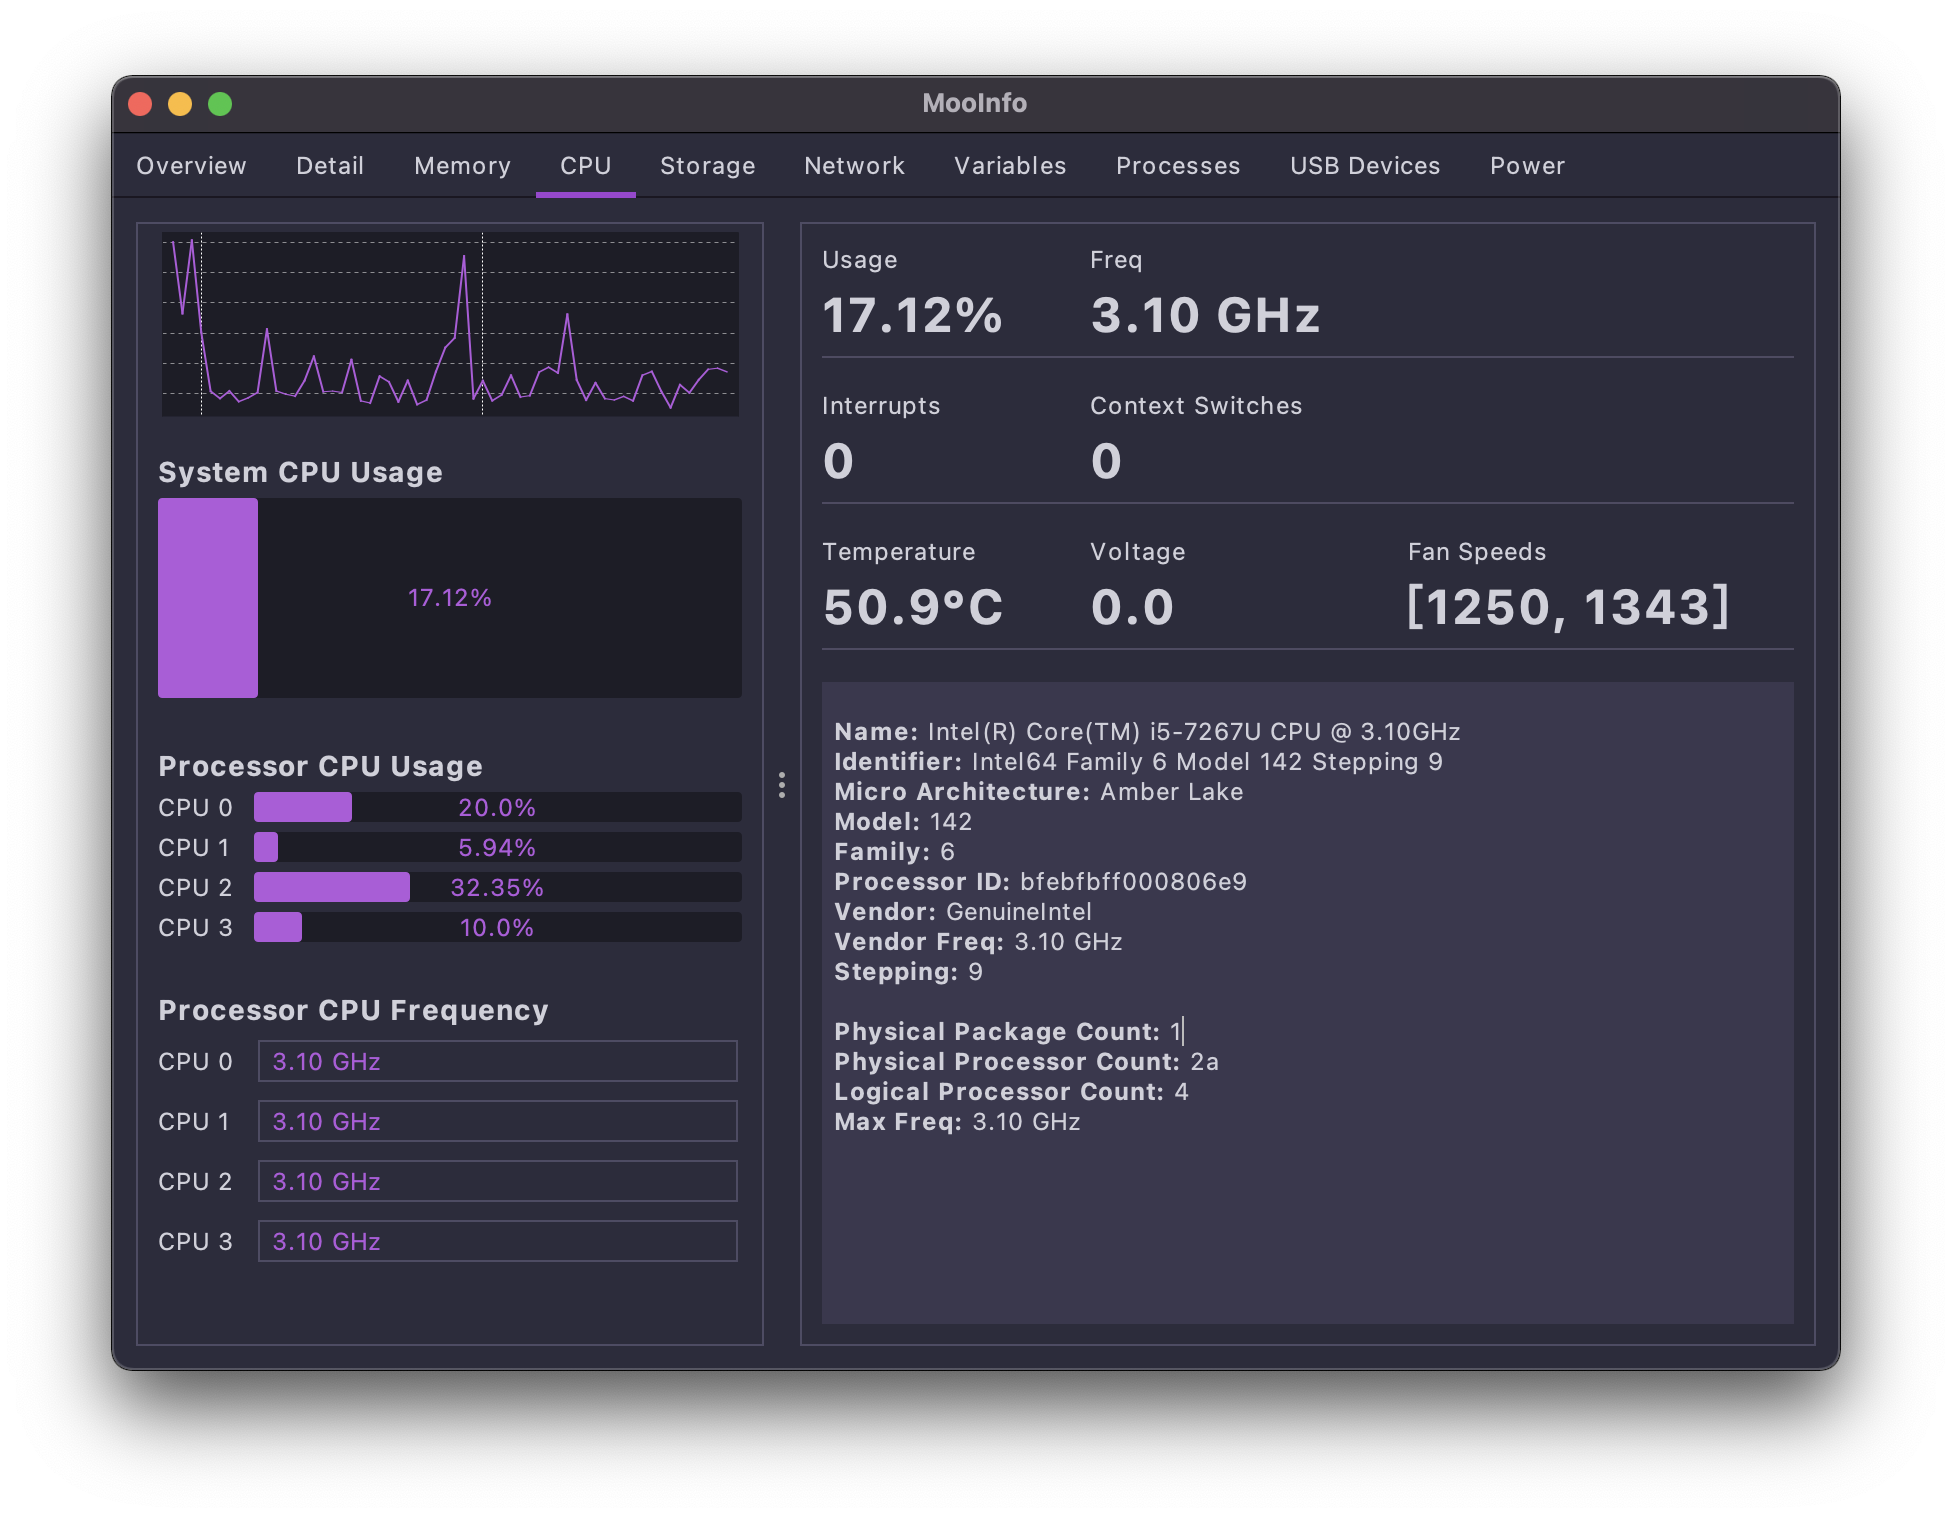
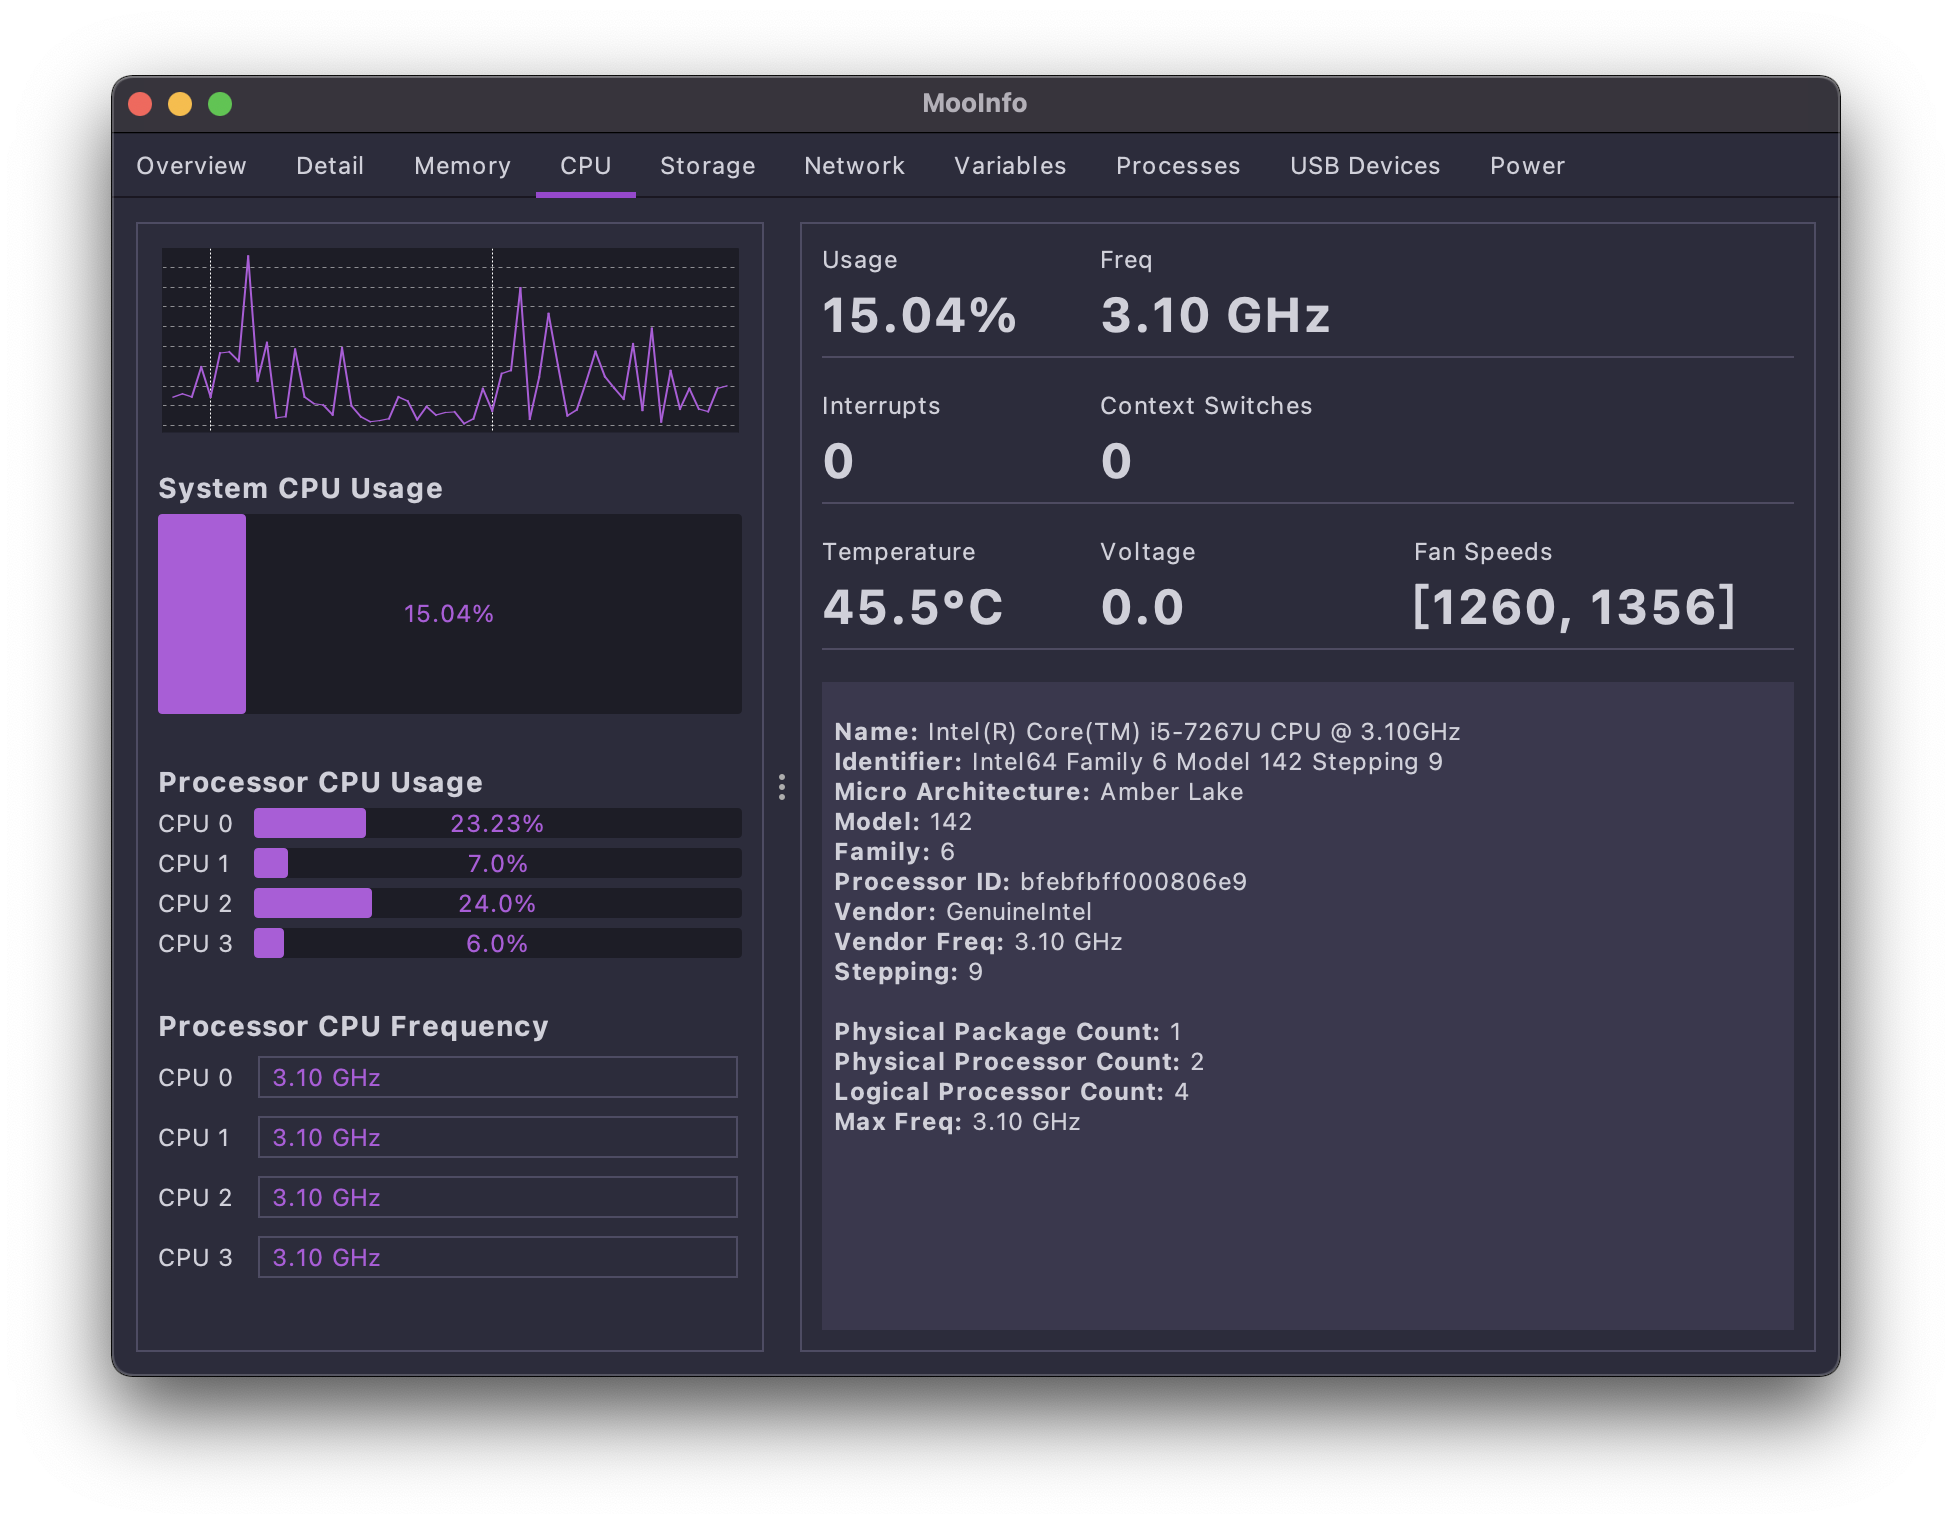
add cpu usage chart

diff --git a/src/main/java/com/luoboduner/moo/info/ui/form/CpuForm.java b/src/main/java/com/luoboduner/moo/info/ui/form/CpuForm.java
@@ -346,7 +346,7 @@ public class CpuForm {
      */
     private static double cpuData(CentralProcessor proc) {
         if (prevTicks == null) {
-            prevTicks = proc.getSystemCpuLoadTicks();
+            return 0;
         }
         double d = proc.getSystemCpuLoadBetweenTicks(prevTicks);
         return d;
@@ -380,7 +380,7 @@ public class CpuForm {
         scrollPaneLeft = new JScrollPane();
         panel2.add(scrollPaneLeft, new GridConstraints(0, 0, 1, 1, GridConstraints.ANCHOR_CENTER, GridConstraints.FILL_BOTH, GridConstraints.SIZEPOLICY_CAN_SHRINK | GridConstraints.SIZEPOLICY_WANT_GROW, GridConstraints.SIZEPOLICY_CAN_SHRINK | GridConstraints.SIZEPOLICY_WANT_GROW, null, null, null, 0, false));
         final JPanel panel3 = new JPanel();
-        panel3.setLayout(new GridLayoutManager(5, 1, new Insets(0, 0, 0, 0), -1, -1));
+        panel3.setLayout(new GridLayoutManager(5, 1, new Insets(8, 0, 0, 0), -1, -1));
         scrollPaneLeft.setViewportView(panel3);
         scuPanel = new JPanel();
         scuPanel.setLayout(new GridLayoutManager(2, 1, new Insets(10, 10, 10, 10), -1, -1));
